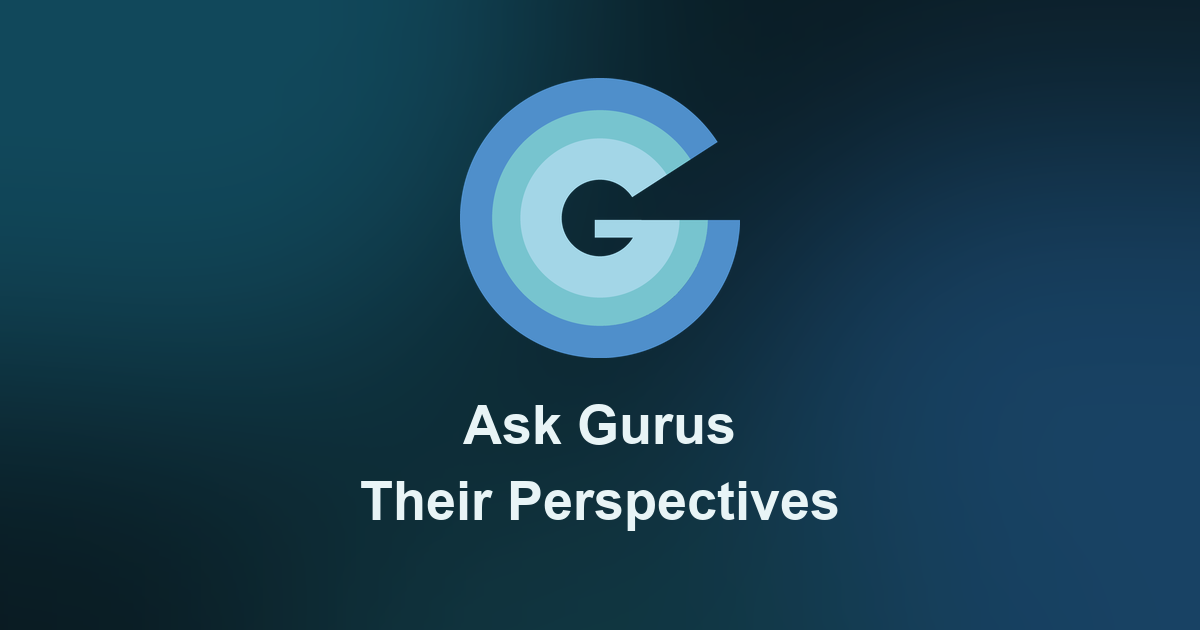
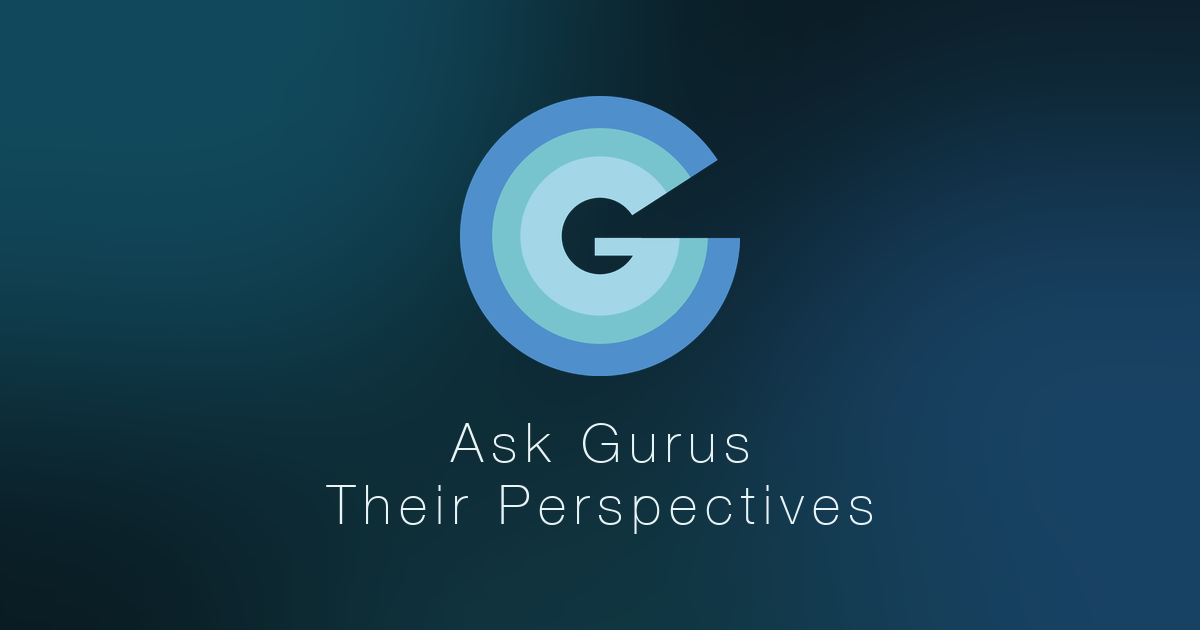
Share image: Helvetica Neue Thin, wider letter spacing, tighter line gap

Changed region(s): [[0.37, 0.1206, 0.6167, 0.6032], [0.2775, 0.6333, 0.74, 0.8444]]

diff --git a/tools/make_icons.py b/tools/make_icons.py
@@ -49,8 +49,20 @@ def draw(size: int, padding: float = 0.0, background: str | None = None) -> Imag
 
 
 FONT = "/System/Library/Fonts/Supplemental/Arial Bold.ttf"
-FONT_TEXT = "/System/Library/Fonts/Supplemental/Arial.ttf"
+FONT_TEXT = ("/System/Library/Fonts/HelveticaNeue.ttc", 12)  # Helvetica Neue Thin (face 12 of the collection)
 TAGLINE = ["Ask Gurus", "Their Perspectives"]  # two lines, the first letter of each word in capital
+
+
+TRACKING = 8  # extra pixels between the letters of the tagline
+
+
+def tracked(d: ImageDraw.ImageDraw, text: str, cx: float, baseline: float, font: ImageFont.FreeTypeFont, fill: str, spacing: float) -> None:
+    """Draws `text` centred on cx with `spacing` extra pixels between the letters."""
+    widths = [font.getlength(c) for c in text]
+    x = cx - (sum(widths) + spacing * (len(text) - 1)) / 2
+    for c, cw in zip(text, widths):
+        d.text((x, baseline), c, font=font, fill=fill, anchor="ls")
+        x += cw + spacing
 
 
 def og_image() -> Image.Image:
@@ -64,11 +76,11 @@ def og_image() -> Image.Image:
     d.ellipse([260, 420, 900, 900], fill="#13404c")
     img = Image.blend(img, blobs.filter(ImageFilter.GaussianBlur(120)), 0.75)
     logo = draw(280)
-    img.paste(logo, ((w - 280) // 2, 78), logo)
+    img.paste(logo, ((w - 280) // 2, 96), logo)
     d = ImageDraw.Draw(img)
-    tag = ImageFont.truetype(FONT, 54)
+    tag = ImageFont.truetype(FONT_TEXT[0], 54, index=FONT_TEXT[1])
     for i, line in enumerate(TAGLINE):
-        d.text((w // 2, 444 + i * 76), line, font=tag, fill="#e8f4f6", anchor="ms")
+        tracked(d, line, w // 2, 462 + i * 62, tag, "#e8f4f6", TRACKING)
     return img
 
 
